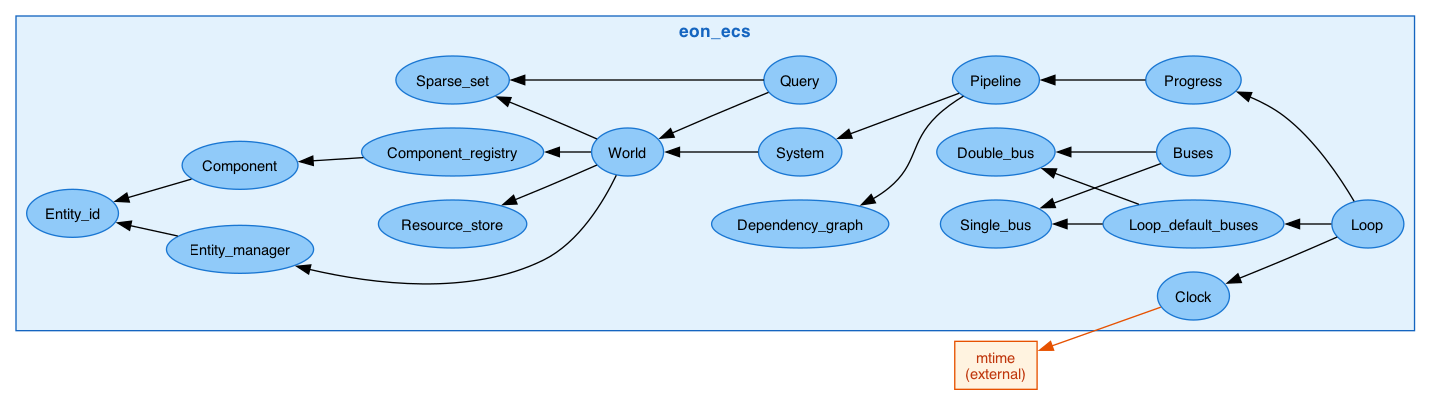
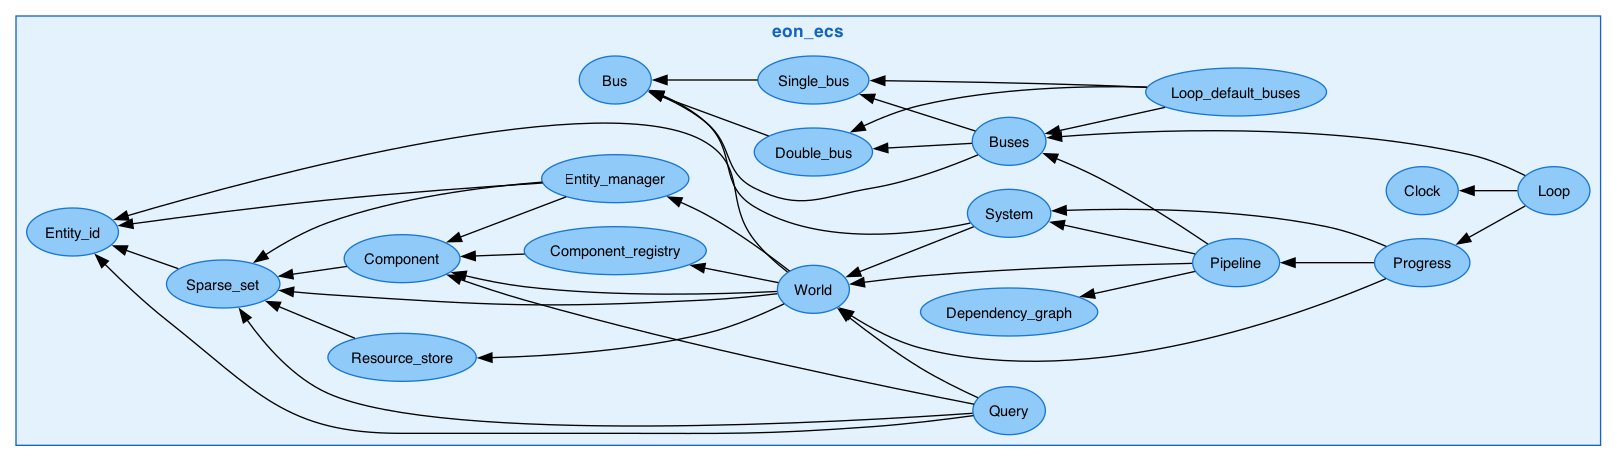
[eon :: tooling] Mechanically derive dependency graphs from tree-sitter tags (ecs-051)
The four dependency digraphs in gen_visualizations.sh (dep_eon_ecs,
dep_eon_engine, dep_eon_edn, dep_cross_package) were hand-curated
illustrations, not mechanically derived. An audit against real
tree-sitter tags data found genuine drift: two flatly wrong edges,
several missing real edges, and a systematic modeling error conflating
"passed in as a functor argument" with "directly depends on" (found
independently in both eon_ecs and eon_engine).

scripts/gen_dependency_graphs.py replaces those four hand-typed heredocs
with generated content: walks each package's real file set (.ml + .mli),
runs synapse-tags.sh, and resolves two distinct edge kinds -- plain
same-package module references, and Eon_ecs.X/Eon_edn.X qualified
references recovered via regex over the tags' own source-line text
(this is what reveals which specific cross-package module is used, since
a plain tag for a qualified access only ever shows the package prefix
itself). Fails soft: the hand-curated heredocs still write first as a
fallback, only overwritten on success, so a missing tree-sitter install
never breaks `just visualizations`.

Sections 2-6 (functor graph, test coverage, LOC, interface ratio, code
stats) are untouched.

diff --git a/scripts/gen_dependency_graphs.py b/scripts/gen_dependency_graphs.py
@@ -1,0 +1,275 @@
+#!/usr/bin/env python3
+"""
+Generates the dependency .dot digraphs (dep_eon_ecs, dep_eon_engine,
+dep_eon_edn, dep_cross_package) from real tree-sitter tags data, replacing
+the hand-maintained digraphs gen_visualizations.sh used to carry directly
+as heredocs. See designs/ecs -- Mechanically-derived dependency graphs.md
+(second-brain vault) for the full rationale and audit that motivated this.
+
+Mechanical, name-based signal only -- same heuristic-not-type-resolved
+caveat as the rest of Synapse's tree-sitter layer (sb-002). Two distinct
+edge sources:
+  - plain `module | ref` tags entries, resolved within the SAME package
+    only (OCaml needs no package qualifier for same-package references,
+    so a bare name always means "this package's own module of that name").
+  - `Eon_ecs.Xxx` / `Eon_edn.Xxx` qualified references, recovered via
+    regex over the tags' own quoted source-line text -- this is what
+    actually reveals *which* cross-package module is used, since a plain
+    module-kind tag for a qualified access only ever shows the package
+    prefix itself ("Eon_ecs"), never the specific submodule.
+
+Fails soft: prints nothing and exits 1 if `synapse-tags.sh` isn't on disk,
+or if every file's tags call comes back empty (tree-sitter/grammar not
+actually working) -- callers must fall back to whatever hand-drawn
+content they already have, never treat this as a hard dependency.
+
+Usage: gen_dependency_graphs.py <output-dir> [eon-repo-root]
+Writes dep_ecs.dot, dep_engine.dot, dep_edn.dot, dep_cross.dot into
+<output-dir> on success. Exits 1, writes nothing, on failure.
+"""
+import os
+import re
+import subprocess
+import sys
+
+PACKAGES = ["eon_ecs", "eon_engine", "eon_edn"]
+PACKAGE_BG = {"eon_ecs": "#e3f2fd", "eon_engine": "#e8f5e9", "eon_edn": "#f3e5f5"}
+PACKAGE_BORDER = {"eon_ecs": "#1565c0", "eon_engine": "#2e7d32", "eon_edn": "#7b1fa2"}
+PACKAGE_NODE_FILL = {"eon_ecs": "#90caf9", "eon_engine": "#a5d6a7", "eon_edn": "#ce93d8"}
+PACKAGE_NODE_BORDER = {"eon_ecs": "#1976d2", "eon_engine": "#388e3c", "eon_edn": "#8e24aa"}
+PACKAGE_PREFIX = {"eon_ecs": "ecs", "eon_engine": "eng", "eon_edn": "edn"}
+PACKAGE_DOT_FILE = {"eon_ecs": "dep_ecs.dot", "eon_engine": "dep_engine.dot", "eon_edn": "dep_edn.dot"}
+
+TAGS_BIN = os.path.expanduser("~/.claude/bin/synapse-tags.sh")
+
+MODULE_REF_RE = re.compile(r"^([^\t]+)\t\s*\|\s*module\s*\tref\b")
+QUALIFIED_RE = {
+    "eon_ecs": re.compile(r"\bEon_ecs\.([A-Z][A-Za-z0-9_]*)"),
+    "eon_edn": re.compile(r"\bEon_edn\.([A-Z][A-Za-z0-9_]*)"),
+}
+
+
+def capitalize(name):
+    return name[:1].upper() + name[1:] if name else name
+
+
+def find_source_files(root, pkg):
+    """Same file set gen_visualizations.sh's sections 3-6 already use
+    (test/bench/composition-root excluded), minus examples/ -- the hand
+    graphs this replaces never drew example files as their own nodes."""
+    pkg_root = os.path.join(root, pkg)
+    out = []
+    for dirpath, _dirnames, filenames in os.walk(pkg_root):
+        segs = set(dirpath.split(os.sep))
+        if segs & {"test", "bench", "examples"}:
+            continue
+        for fn in filenames:
+            if fn.endswith(".ml") and fn != f"{pkg}.ml":
+                out.append(os.path.join(dirpath, fn))
+    return sorted(out)
+
+
+def collapse_target(root, pkg, path):
+    """A file under pkg/src/<subdir>/ collapses into the sibling
+    pkg/src/<subdir>.ml aggregate module's name, if one exists (matches
+    the one real case in this codebase: eon_engine/src/components/*.ml
+    folding into the `components.ml` aggregate). Everything else maps to
+    its own basename -- no other subdir here has such a sibling today."""
+    rel = os.path.relpath(path, os.path.join(root, pkg))
+    parts = rel.split(os.sep)
+    if len(parts) >= 3 and parts[0] == "src":
+        subdir = parts[1]
+        sibling = os.path.join(root, pkg, "src", subdir + ".ml")
+        if os.path.exists(sibling):
+            return capitalize(subdir)
+    base = os.path.splitext(parts[-1])[0]
+    return capitalize(base)
+
+
+def run_tags(path):
+    if not os.path.exists(TAGS_BIN):
+        return ""
+    try:
+        r = subprocess.run([TAGS_BIN, path], capture_output=True, text=True, timeout=30)
+    except Exception:
+        return ""
+    return r.stdout if r.returncode == 0 else ""
+
+
+def module_refs(tags_text):
+    refs = set()
+    for line in tags_text.splitlines():
+        m = MODULE_REF_RE.match(line)
+        if m:
+            refs.add(m.group(1).strip())
+    return refs
+
+
+def qualified_refs(tags_text):
+    out = set()
+    for pkg, rx in QUALIFIED_RE.items():
+        for m in rx.finditer(tags_text):
+            out.add((pkg, m.group(1)))
+    return out
+
+
+def build(root):
+    registry = {}
+    for pkg in PACKAGES:
+        registry[pkg] = {}
+        for path in find_source_files(root, pkg):
+            base = os.path.splitext(os.path.basename(path))[0]
+            mod = capitalize(base)
+            registry[pkg][mod] = (collapse_target(root, pkg, path), path)
+
+    intra_edges = {pkg: set() for pkg in PACKAGES}
+    cross_edges = set()  # (src_pkg, src_collapsed, dst_pkg, dst_collapsed)
+    any_tags = False
+
+    for pkg in PACKAGES:
+        for mod, (collapsed_src, path) in registry[pkg].items():
+            text = run_tags(path)
+            mli = path[:-3] + ".mli"
+            if os.path.exists(mli):
+                text += "\n" + run_tags(mli)
+            if not text.strip():
+                continue
+            any_tags = True
+
+            # tree-sitter tags each segment of a qualified path separately --
+            # for `Eon_ecs.Query.iter_entities`, that's a `module | ref` for
+            # BOTH "Eon_ecs" and "Query". The plain module_refs() below has
+            # no way to tell "Query" apart from a genuine bare, same-package
+            # reference, and would wrongly resolve it against this package's
+            # own same-named module if one exists. The qualified-path regex
+            # already identifies exactly which names are middle segments of
+            # a cross-package access, not bare references -- exclude them.
+            qualified = qualified_refs(text)
+            qualified_names = {qmod for _qpkg, qmod in qualified}
+
+            for ref in module_refs(text):
+                if ref == mod or ref in qualified_names:
+                    continue
+                target = registry[pkg].get(ref)
+                if not target:
+                    continue  # not an internal module of this package -> stdlib/external
+                collapsed_dst, _ = target
+                if collapsed_dst == collapsed_src:
+                    continue  # collapsed into the same visual node -> not a drawn edge
+                intra_edges[pkg].add((collapsed_src, collapsed_dst))
+
+            for qpkg, qmod in qualified:
+                target = registry.get(qpkg, {}).get(qmod)
+                if not target:
+                    continue
+                collapsed_dst, _ = target
+                cross_edges.add((pkg, collapsed_src, qpkg, collapsed_dst))
+
+    if not any_tags:
+        return None  # tree-sitter/grammar not actually working -> fail soft
+    return registry, intra_edges, cross_edges
+
+
+def dot_header(digraph_name):
+    return [
+        f"digraph {digraph_name} {{",
+        "  rankdir=RL",
+        '  node [fontname="Helvetica" fontsize=11 style=filled]',
+        '  edge [fontname="Helvetica" fontsize=9]',
+        "",
+    ]
+
+
+def node_id(pkg, label):
+    return f"{PACKAGE_PREFIX[pkg]}_{label.lower()}"
+
+
+def emit_package_dot(pkg, edges):
+    lines = dot_header(f"{pkg}_dependencies")
+    lines.append(f"  subgraph cluster_{PACKAGE_PREFIX[pkg]} {{")
+    lines.append(f'    label="{pkg}"')
+    lines.append("    style=filled")
+    lines.append(f'    fillcolor="{PACKAGE_BG[pkg]}"')
+    lines.append(f'    color="{PACKAGE_BORDER[pkg]}"')
+    lines.append(f'    fontcolor="{PACKAGE_BORDER[pkg]}"')
+    lines.append("    fontsize=13")
+    lines.append('    fontname="Helvetica-Bold"')
+    lines.append("")
+    lines.append(f'    node [fillcolor="{PACKAGE_NODE_FILL[pkg]}" color="{PACKAGE_NODE_BORDER[pkg]}"]')
+    lines.append("")
+
+    nodes = sorted({n for edge in edges for n in edge})
+    for n in nodes:
+        lines.append(f'    {node_id(pkg, n)} [label="{n}"]')
+    lines.append("")
+    for src, dst in sorted(edges):
+        lines.append(f"    {node_id(pkg, src)} -> {node_id(pkg, dst)}")
+    lines.append("  }")
+    lines.append("}")
+    return "\n".join(lines) + "\n"
+
+
+def emit_cross_dot(cross_edges):
+    lines = [
+        "digraph cross_package_dependencies {",
+        "  rankdir=LR",
+        '  node [fontname="Helvetica" fontsize=11 style=filled]',
+        '  edge [fontname="Helvetica" fontsize=9 color="#cc5500" penwidth=2.5]',
+        "",
+    ]
+
+    by_pkg = {pkg: set() for pkg in PACKAGES}
+    for src_pkg, src_n, dst_pkg, dst_n in cross_edges:
+        by_pkg[src_pkg].add(src_n)
+        by_pkg[dst_pkg].add(dst_n)
+
+    for pkg in PACKAGES:
+        if not by_pkg[pkg]:
+            continue
+        lines.append(f"  subgraph cluster_{PACKAGE_PREFIX[pkg]} {{")
+        lines.append(f'    label="{pkg}"')
+        lines.append("    style=filled")
+        lines.append(f'    fillcolor="{PACKAGE_BG[pkg]}"')
+        lines.append(f'    color="{PACKAGE_BORDER[pkg]}"')
+        lines.append(f'    fontcolor="{PACKAGE_BORDER[pkg]}"')
+        lines.append("    fontsize=13")
+        lines.append('    fontname="Helvetica-Bold"')
+        lines.append(f'    node [fillcolor="{PACKAGE_NODE_FILL[pkg]}" color="{PACKAGE_NODE_BORDER[pkg]}"]')
+        for n in sorted(by_pkg[pkg]):
+            lines.append(f'    {node_id(pkg, n)} [label="{n}"]')
+        lines.append("  }")
+        lines.append("")
+
+    for src_pkg, src_n, dst_pkg, dst_n in sorted(cross_edges):
+        lines.append(f"  {node_id(src_pkg, src_n)} -> {node_id(dst_pkg, dst_n)}")
+    lines.append("}")
+    return "\n".join(lines) + "\n"
+
+
+def main():
+    if len(sys.argv) < 2:
+        print("usage: gen_dependency_graphs.py <output-dir> [eon-repo-root]", file=sys.stderr)
+        sys.exit(1)
+    out_dir = sys.argv[1]
+    root = sys.argv[2] if len(sys.argv) > 2 else os.getcwd()
+
+    result = build(root)
+    if result is None:
+        sys.exit(1)
+    registry, intra_edges, cross_edges = result
+
+    os.makedirs(out_dir, exist_ok=True)
+    for pkg in PACKAGES:
+        if pkg == "eon_edn" and not intra_edges[pkg]:
+            # eon_edn's real graph is tiny (3 modules) -- an empty result
+            # here would be suspicious, but don't hard-fail the whole run
+            # over one package; just skip writing an empty/misleading file.
+            continue
+        with open(os.path.join(out_dir, PACKAGE_DOT_FILE[pkg]), "w") as f:
+            f.write(emit_package_dot(pkg, intra_edges[pkg]))
+    with open(os.path.join(out_dir, "dep_cross.dot"), "w") as f:
+        f.write(emit_cross_dot(cross_edges))
+
+
+if __name__ == "__main__":
+    main()

diff --git a/docs/design/codebase_map.md b/docs/design/codebase_map.md
@@ -83,7 +83,7 @@ Implementation (`.ml`) line count per module, excluding tests, benchmarks, and c
 
 ## Code statistics
 
-_Generated by `just visualizations` on 2026-07-19._
+_Generated by `just visualizations` on 2026-08-02._
 
 ### Line counts
 
@@ -91,7 +91,7 @@ _Generated by `just visualizations` on 2026-07-19._
 |---|---:|---:|---:|---:|
 | Source implementation (`.ml`) | 2592 | 3483 | 435 | 6510 |
 | Public interfaces (`.mli`) | 1223 | 2440 | 137 | 3800 |
-| Tests | 2186 | 3896 | 360 | 6442 |
+| Tests | 2634 | 4077 | 396 | 7107 |
 | Benchmarks | 916 | 307 | 98 | 1321 |
 
 ### Module counts
@@ -99,16 +99,16 @@ _Generated by `just visualizations` on 2026-07-19._
 | | eon\_ecs | eon\_engine | eon\_edn | Total |
 |---|---:|---:|---:|---:|
 | Public modules (with `.mli`) | 20 | 59 | 4 | 83 |
-| Test suites | 23 | 21 | 3 | 47 |
+| Test suites | 27 | 23 | 3 | 53 |
 | Test cases | 91 | 230 | 13 | 334 |
 
 ### Repository
 
 | | |
 |---|---|
-| Total commits | 302 |
-| Open issues | 0 |
+| Total commits | 307 |
+| Open issues | 2 |
 | Created | 2025-10-11 |
-| Last commit | 2026-07-19 |
+| Last commit | 2026-08-01 |
 
 <!-- STATS_END -->
